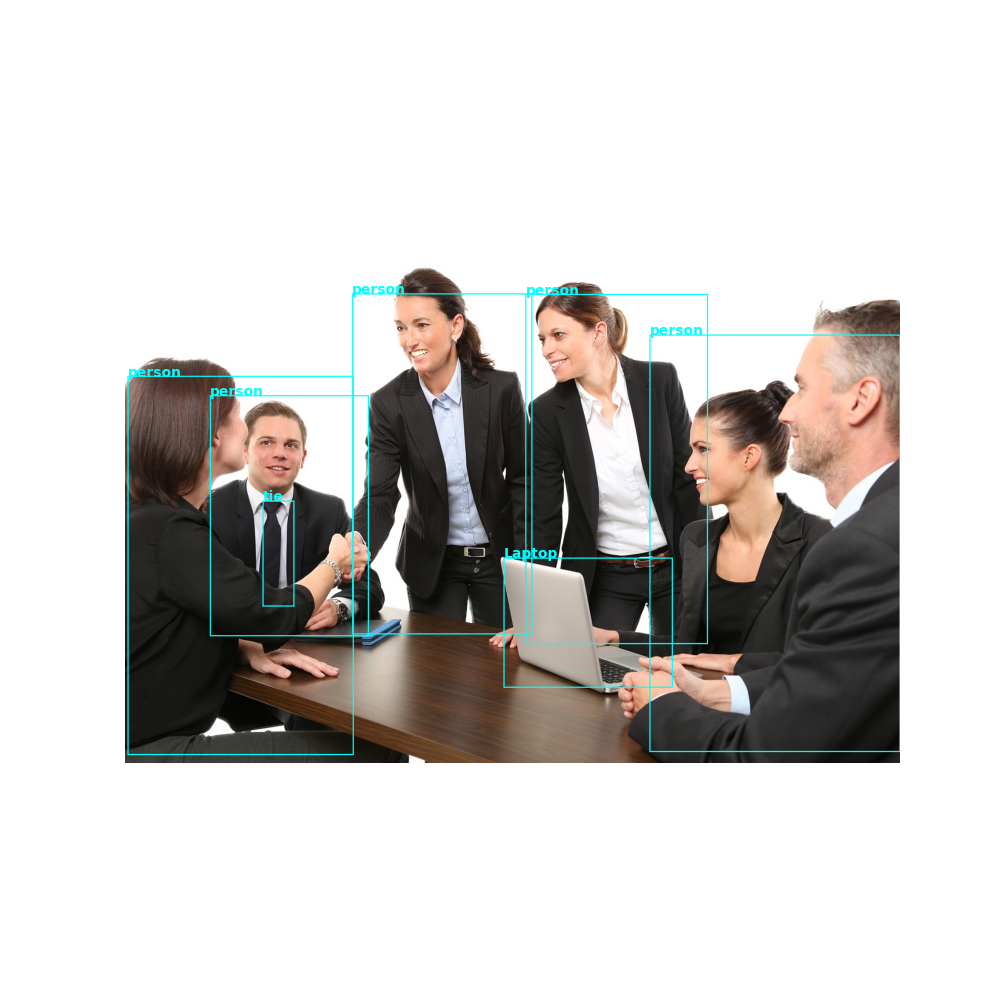
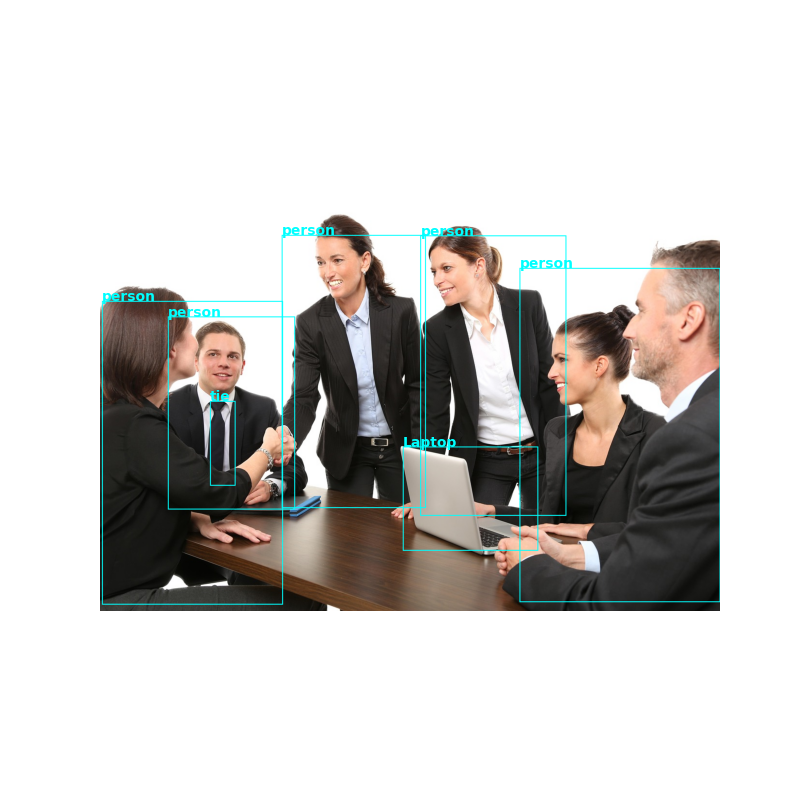
update object detection result image size

diff --git a/image_analysis_azure/image_analysis.py b/image_analysis_azure/image_analysis.py
@@ -242,7 +242,7 @@ class ImageAnalysis:
     def detect_object(self, image_url,result_image) -> None:
         """
             Detect Objects - detect objects with bounding boxes in an image
-            
+
             :param image_url: image url
             :param result_image: image with detected objects
         """
@@ -254,7 +254,7 @@ class ImageAnalysis:
         if len(obj_results.objects) == 0:
             print("No objects detected.")
         else:
-            fig = plt.figure(figsize=(10, 10))
+            fig = plt.figure(figsize=(8, 8))
             plt.axis('off')
             image = Image.open(requests.get(image_url, stream=True).raw)
             draw = ImageDraw.Draw(image)
